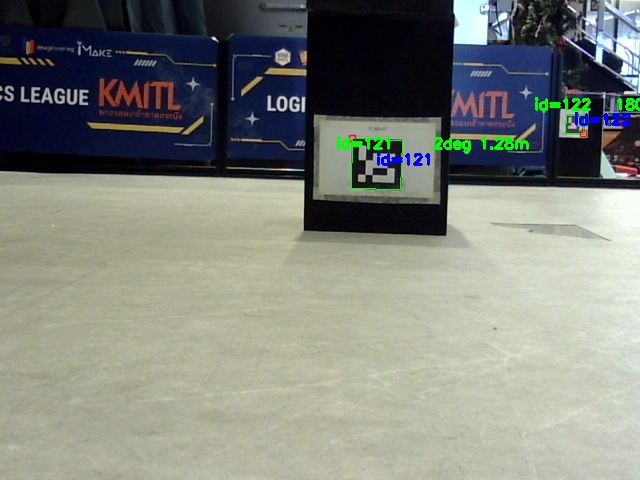
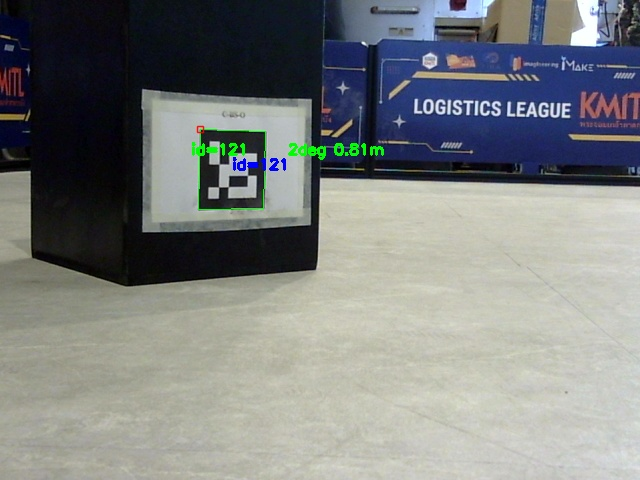
Docs: real-world slide, new ArUco frame, Q&A notes

diff --git a/docs/final_presentation/make_slides.py b/docs/final_presentation/make_slides.py
@@ -323,7 +323,7 @@ def aruco():
     cam = Image.open(f'{OUT}/aruco_camera_view.jpg').convert('RGB').resize((960, 720), Image.LANCZOS)
     d.rounded_rectangle([86, 226, 1050, 950], 8, outline=EDGE, width=4)
     im.paste(cam, (90, 230))
-    d.text((90, 975), 'Marker 121 (BS output side) read at 1.27 m, 2° · marker 122 (BS input side) on a far box at 3.57 m', fill=POWER, font=font(24, True))
+    d.text((90, 975), 'Marker 121 (BS output side) read at 0.82 m, 2.6° from the camera axis', fill=POWER, font=font(24, True))
     steps = [('1  Detect', 'grey image, OpenCV ArUco', 'DICT_ARUCO_ORIGINAL, ~9 frames/s'),
              ('2  Measure', 'solvePnP with our calibration', 'fx 999.5 px, marker 6.34 cm'),
              ('3  Name the box', 'ID pair: BS 121/122, CS1 101/102', 'even ID = input side, odd = output'),
@@ -379,3 +379,37 @@ def calibration():
 
 if __name__ == '__main__':
     calibration()
+
+
+def realworld():
+    im, d = slide('FROM THE LAB TO A REAL FACTORY', 'What our robot already proves, what changes outside the lab, and who would use it')
+    cols = [('WHAT CARRIES OVER', POWER, [
+                ('Find its own way', 'LiDAR + map (AMCL) keeps it within ~5 cm;', 'odometry alone drifts 4.5 % of distance'),
+                ('Identify stations', 'ArUco on each machine gives ID and side,', 'checked by a second view before acting'),
+                ('Take jobs from a server', 'RefBox over MQTT = a fleet manager', 'sending tasks, robot reports back'),
+                ('Omni base', 'drives sideways into tight spots', 'between machines, no turning space')]),
+            ('WHAT CHANGES OUTSIDE', DATA, [
+                ('People around it', 'safety-rated LiDAR + speed zones', '(ISO 3691-4), not only a STOP button'),
+                ('Bigger, changing floor', 'bigger map, docking markers at stations,', 'recover when pallets move'),
+                ('Long shifts', 'our 24 V 4 Ah pack is ~96 Wh: a shift needs', 'auto charging + battery level to the server'),
+                ('Light and Wi-Fi', 'camera needs even light; network can drop:', 'finish the task, then wait safely')]),
+            ('WHO USES IT', WIFI, [
+                ('Line operator', 'web app on a phone: start, stop, see', 'where the robot is and what it does'),
+                ('Maintenance', 'status page (CPU, temperature, wheels),', 'rosbag + 3D replay to find faults'),
+                ('Production planner', 'sends jobs through the fleet server,', 'robots move parts machine to machine'),
+                ('Next step', 'put the SCARA arm on top: our pose', '+ ArUco offset aligns the pick')])]
+    for i, (head, col, items) in enumerate(cols):
+        x = 90 + i * 590
+        d.text((x, 225), head, fill=col, font=font(24, True))
+        y = 270
+        for h, a, b in items:
+            d.rounded_rectangle([x, y, x + 560, y + 170], 10, fill=BOX, outline=EDGE, width=2)
+            d.text((x + 24, y + 20), h, fill=FG, font=font(27, True))
+            d.text((x + 24, y + 70), a, fill=(215, 215, 215), font=font(22))
+            d.text((x + 24, y + 106), b, fill=(215, 215, 215), font=font(22))
+            y += 186
+    im.save(f'{OUT}/slide_realworld.png')
+
+
+if __name__ == '__main__':
+    aruco(); realworld()

diff --git a/docs/final_presentation/qa_thai.md b/docs/final_presentation/qa_thai.md
@@ -1,0 +1,72 @@
+# ซ้อมถาม-ตอบ Presentation
+
+ตอบสั้น ตอบจากสิ่งที่ทำจริง ถ้าไม่รู้ให้บอกว่ายังไม่ได้วัด ตัวเลขจาก sim ต้องบอกว่าเป็น sim
+
+## การออกแบบระบบ
+**ทำไมใช้ล้อ Omni?** ขับเฉียงและเคลื่อนข้างได้โดยไม่ต้องหมุนตัว เข้าออกช่องใกล้กล่องได้ง่าย
+
+**หุ่นรู้ตำแหน่งตัวเองยังไง?** รวมล้อกับ IMU ด้วย EKF แล้วใช้ AMCL เทียบ LiDAR กับแผนที่สนาม
+
+**ทำไมใช้ AMCL ไม่ใช่ SLAM ตอนแข่ง?** สนามคงที่ มีแผนที่ล่วงหน้า ใช้ทรัพยากร Pi น้อยกว่าและตำแหน่งนิ่งกว่า
+
+**ทำไมใช้ DWB?** รองรับการขับด้านข้างของหุ่น Omni ส่วน RPP ใช้แกนข้างไม่ได้ และ MPPI หนักเกินสำหรับ Pi ที่รันงานอื่นด้วย
+
+**กันชนยังไง?** collision monitor หยุดหุ่นเมื่อมีสิ่งกีดขวางในรัศมี 0.29 ม. และมี wheel guard หยุดล้อถ้า encoder ผิดปกติ
+
+## Navigation
+**เลือกลำดับช่องยังไง?** คำนวณลำดับเวลารวมต่ำสุดด้วย Held-Karp โดยเลี่ยงช่องกล่องและทางแคบ
+
+**ทำไมต้องอยู่ในช่อง 5 วินาทีแล้วออกช้า?** refbox นับครบเกิน 5 วินาที แต่ประกาศผลทุก 2 วินาที เราจึงเจอการรอเพิ่ม
+
+**ทำไมเพิ่มความเร็วเป็น 0.40 m/s แล้วไม่เร็วขึ้นมาก?** ระยะแต่ละช่วงสั้น หุ่นเร่งไม่ถึงความเร็วสูงสุด ใน sim เร็วขึ้นแค่ราว 3%
+
+## Exploration
+**หากล่องยังไง?** LiDAR เดาช่องจากก้อนขนาดกล่องใกล้กลางช่อง แล้วกล้องอ่าน ArUco เพื่อยืนยันชื่อและมุม
+
+**ทำไมต้องยืนยันจาก 2 ตำแหน่ง?** รายงานผิดถูกหักคะแนน และ refbox นับรายงานแรก
+
+**ถ้า LiDAR มองไม่เห็นกล่อง?** ถ้ากล่องเตี้ยกว่า 30.5 ซม. หุ่นจะกลับไปกวาดทั้งสนาม
+
+**หามุมของกล่องยังไง?** เลข marker บอกด้าน input/output ทิศ marker บอกทิศกล่อง แล้วปัดให้ตรงมุมที่กฎ refbox อนุญาต
+
+## การทดสอบและปัญหาที่เจอ
+**ประเมินหุ่นยังไง?** เทสต์อัตโนมัติ, sim หลายผังรวมผังยาก, และเกมจริงกับ refbox พร้อม rosbag
+
+**ปัญหายากสุดที่เจอ?** โดนหักคะแนนตอนเริ่มเกมเพราะ Bridge ส่งรายงานเกมก่อนซ้ำ แก้ด้วย auto_reset ที่ reset Bridge เองทุกครั้งที่ refbox เข้า SETUP
+
+**ผล sim เชื่อได้แค่ไหน?** ใช้เทียบก่อน-หลังได้ แต่ไม่มีล้อลื่นและแสงจริง จึงต้องยืนยันบนหุ่น
+
+## ถ้าระบบล้มระหว่างเกม
+**Wi-Fi หลุด?** หุ่นจะไม่ได้รับการยืนยันจาก refbox และต้องต่อใหม่ [ยังไม่ได้ทดสอบ ควรลองก่อนแข่ง]
+
+**หุ่นติด?** ระบบส่งเส้นทางซ้ำ ถ้าไม่สำเร็จจะข้ามจุดนั้นและกลับมาเก็บภายหลัง
+
+**ใช้กับโรงงานจริงต้องเพิ่มอะไร?** เซ็นเซอร์นิรภัย, การหลบคน, การจัดการหลายคัน และเครือข่ายสำรอง
+
+## เพิ่มหลังแข่ง (ตัวเลขจากสไลด์)
+**ผลแข่ง?** เต็มทั้งสองภารกิจ Navigation 11/11 (12/12 ช่องใน 124 วินาที ไม่มี retry), Exploration 11/11 (2/2 กล่องใน 57 วินาที)
+
+**ทำไมภาพกล้องบนเว็บไม่หน่วง?** ไม่ส่งภาพผ่าน rosbridge (JSON+base64 ช้า) ใช้ web_video_server แปลงเป็น MJPEG บนหุ่น ย่อเหลือ 640×360 คุณภาพ 60 ราว 21 KB ต่อภาพ ~10 fps เบราว์เซอร์แสดงด้วย <img> ไม่ต้องถอดรหัสด้วย JS และส่งเฉพาะตอนเปิดแท็บ Camera กินแค่ ~8.5% ของ 1 core
+
+**Pi รับไหวไหม?** รันครบทุกโปรแกรมใช้ CPU 42% ของ 4 core, 40–42°C, ไม่มี throttle (0x0), RAM 35% ตัวที่หนักสุดคือ Nav2+AMCL ~70% ของ 1 core, ArUco ~35%, LiDAR box finder ~25% (วัดตอนหุ่นยืนนิ่ง ตอนวิ่งจะสูงขึ้นอีก)
+
+**พัดลมช่วยไหม?** ใส่ 3 ตัวดูดลมร้อนออก วัดได้สูงสุด 42°C ห่างจากจุด throttle 80°C มาก [ยังไม่ได้วัดแบบไม่มีพัดลมเทียบ]
+
+**ทำไมต้องใช้ LiDAR+AMCL ไม่ใช้แค่ล้อกับ IMU?** วัดจาก bag 13 เกม odometry อย่างเดียวคลาดเฉลี่ย 4.5% ของระยะ heading คลาด ~5% ของมุมที่หมุน ทั้งเกมจะคลาดเกือบ 1 เมตร AMCL แก้ทีละ <1.5 cm ทำให้หยุดห่างกลางช่องเฉลี่ย 4.9 cm
+
+**ตัวเลขกลางช่องเชื่อได้ไหม?** เป็นตำแหน่งจาก AMCL ไม่ใช่ตลับเมตร จุดที่วัดด้วยตลับเมตรจริงมี 1 จุด (C_Z33) คลาด 7.2 cm
+
+**calibrate กล้องยังไง?** chessboard 9×6 บนบอร์ดแข็ง 72 ภาพ + 4 ภาพไว้ตรวจ reprojection 0.25 px (ตรวจ 0.18) กระดาษงอให้ 0.7–1.0 px จึงเปลี่ยนเป็นบอร์ดแข็ง
+
+**ArUco วัดระยะแม่นแค่ไหน?** ตอนแรกเกินจริง ~10% ทุกระยะ เพราะขนาด marker จริงเล็กกว่า 7 cm ปรับขนาดเป็น 6.34 cm แล้ว 100 cm อ่านได้ 100.3 cm
+
+**ทำไม exploration เร็วขึ้น 4 เท่า?** LiDAR หากล่องก่อน กล้องแค่ยืนยัน ไม่ต้องกวาดทั้งสนามด้วยกล้อง
+
+**ย้อนดูเกมยังไง?** Record เก็บ rosbag (ไม่มีภาพกล้อง ~30 MB/เกม) แท็บ Replay บนเว็บแปลงในไม่กี่วินาทีแล้วเล่นแบบ 3D
+
+**PID ล้อดีแค่ไหน?** ในเกมความเร็วจริงต่างจากที่สั่ง median 11–14% (ช่วงเร่ง/เบรกต่างมากกว่า) step test ยกล้อ overshoot สูงสุด 33%
+
+## ยังไม่มีข้อมูล (ถ้าถูกถามให้ตอบตรงๆ)
+- ระยะเวลาที่แบต 24 V 4 Ah ใช้ได้ต่อการชาร์จ
+- ความแม่นยำตำแหน่งด้วยตลับเมตรหลายจุด (มีแค่ C_Z33)
+- CPU ตอนหุ่นวิ่งจริง (วัดตอนยืนนิ่ง)

diff --git a/docs/final_presentation/README.md b/docs/final_presentation/README.md
@@ -10,6 +10,8 @@
 | `slide_performance.png` | Pi 5 CPU / temperature with each part running, camera and recording techniques (`pi_load.jsonl`) |
 | `slide_aruco.png` | live camera frame with the ArUco overlay (`aruco_camera_view.jpg`) and the five steps from marker to report |
 | `slide_calibration.png` | camera calibration images (`calib_grid.jpg`), result and the ArUco distance check |
+| `slide_realworld.png` | real-world use: what carries over, what changes outside the lab, who uses it |
+| `qa_thai.md` | Q&A practice notes (Thai) |
 | `race_*_route.png` | robot path of the two race games (16 Nov 2026) |
 | `race_*_replay.mp4` | 2× top-down replay of the race games, made from the rosbags (no camera images were recorded) |
 | `race_eval.json`, `games_eval.json` | numbers behind the slides |
